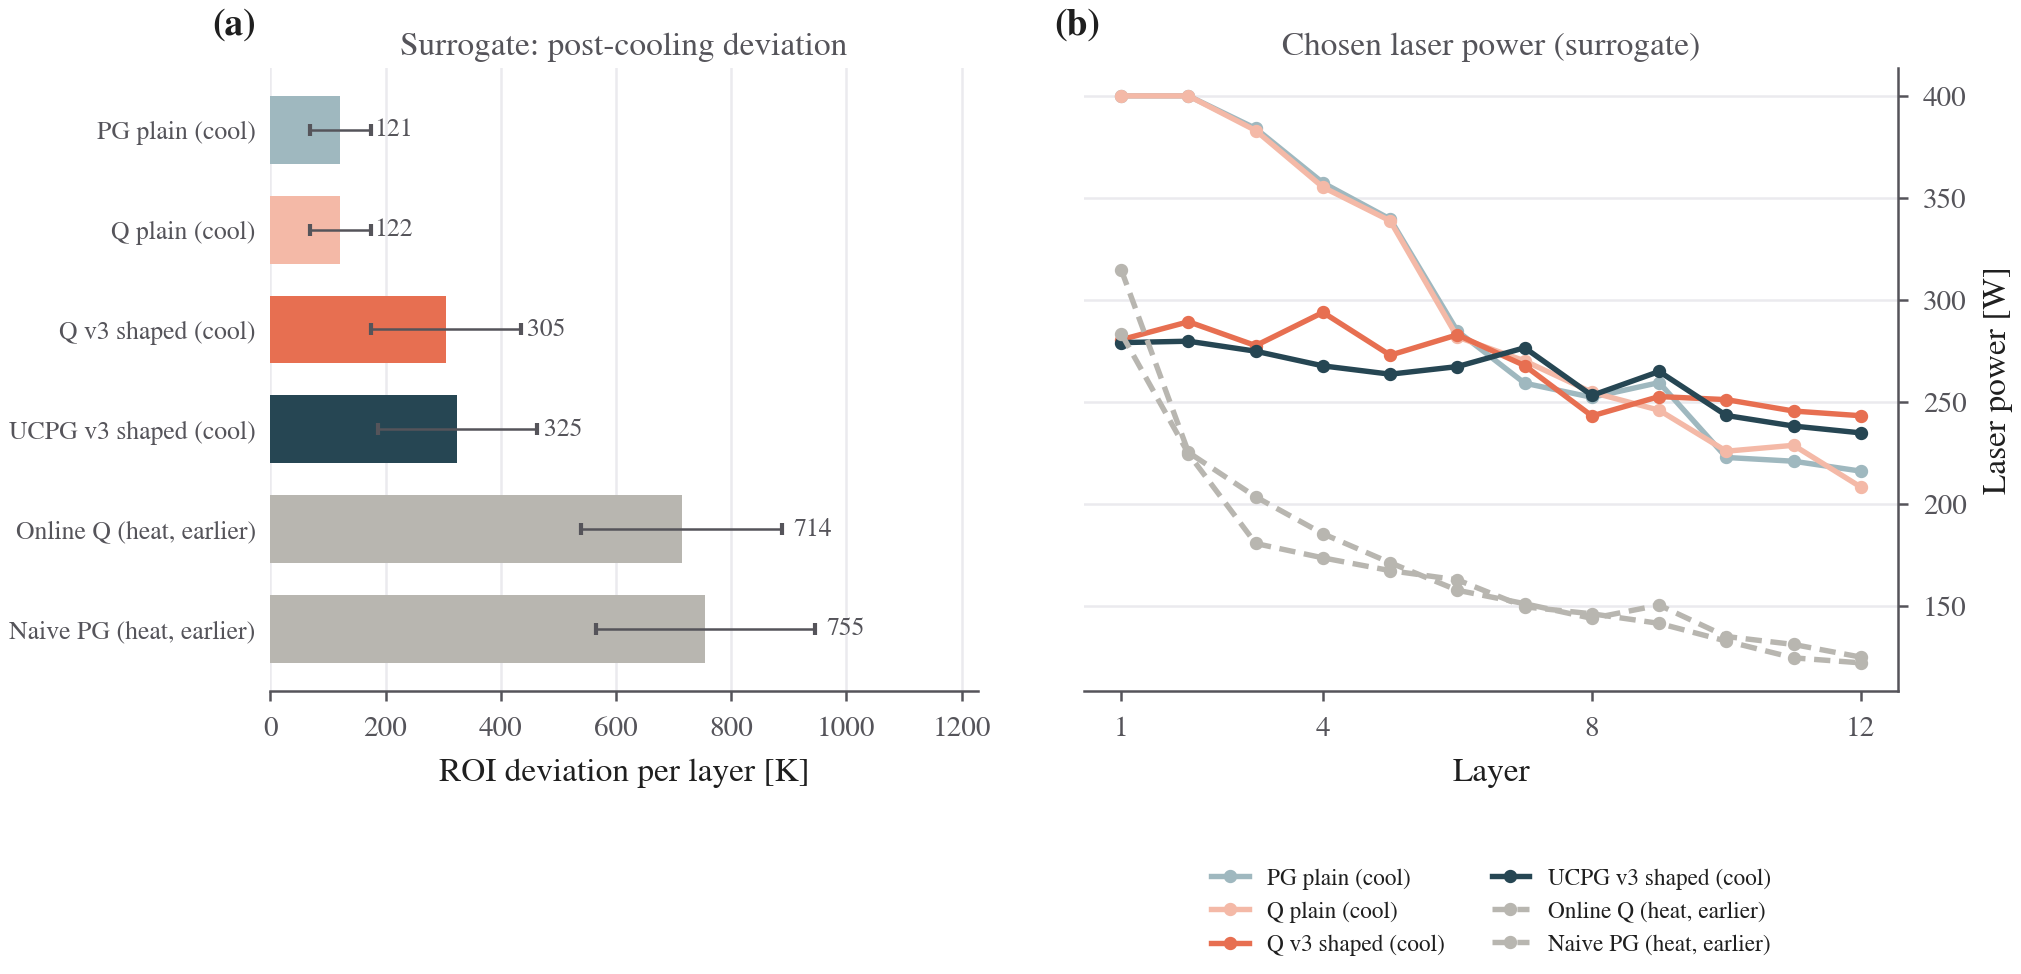
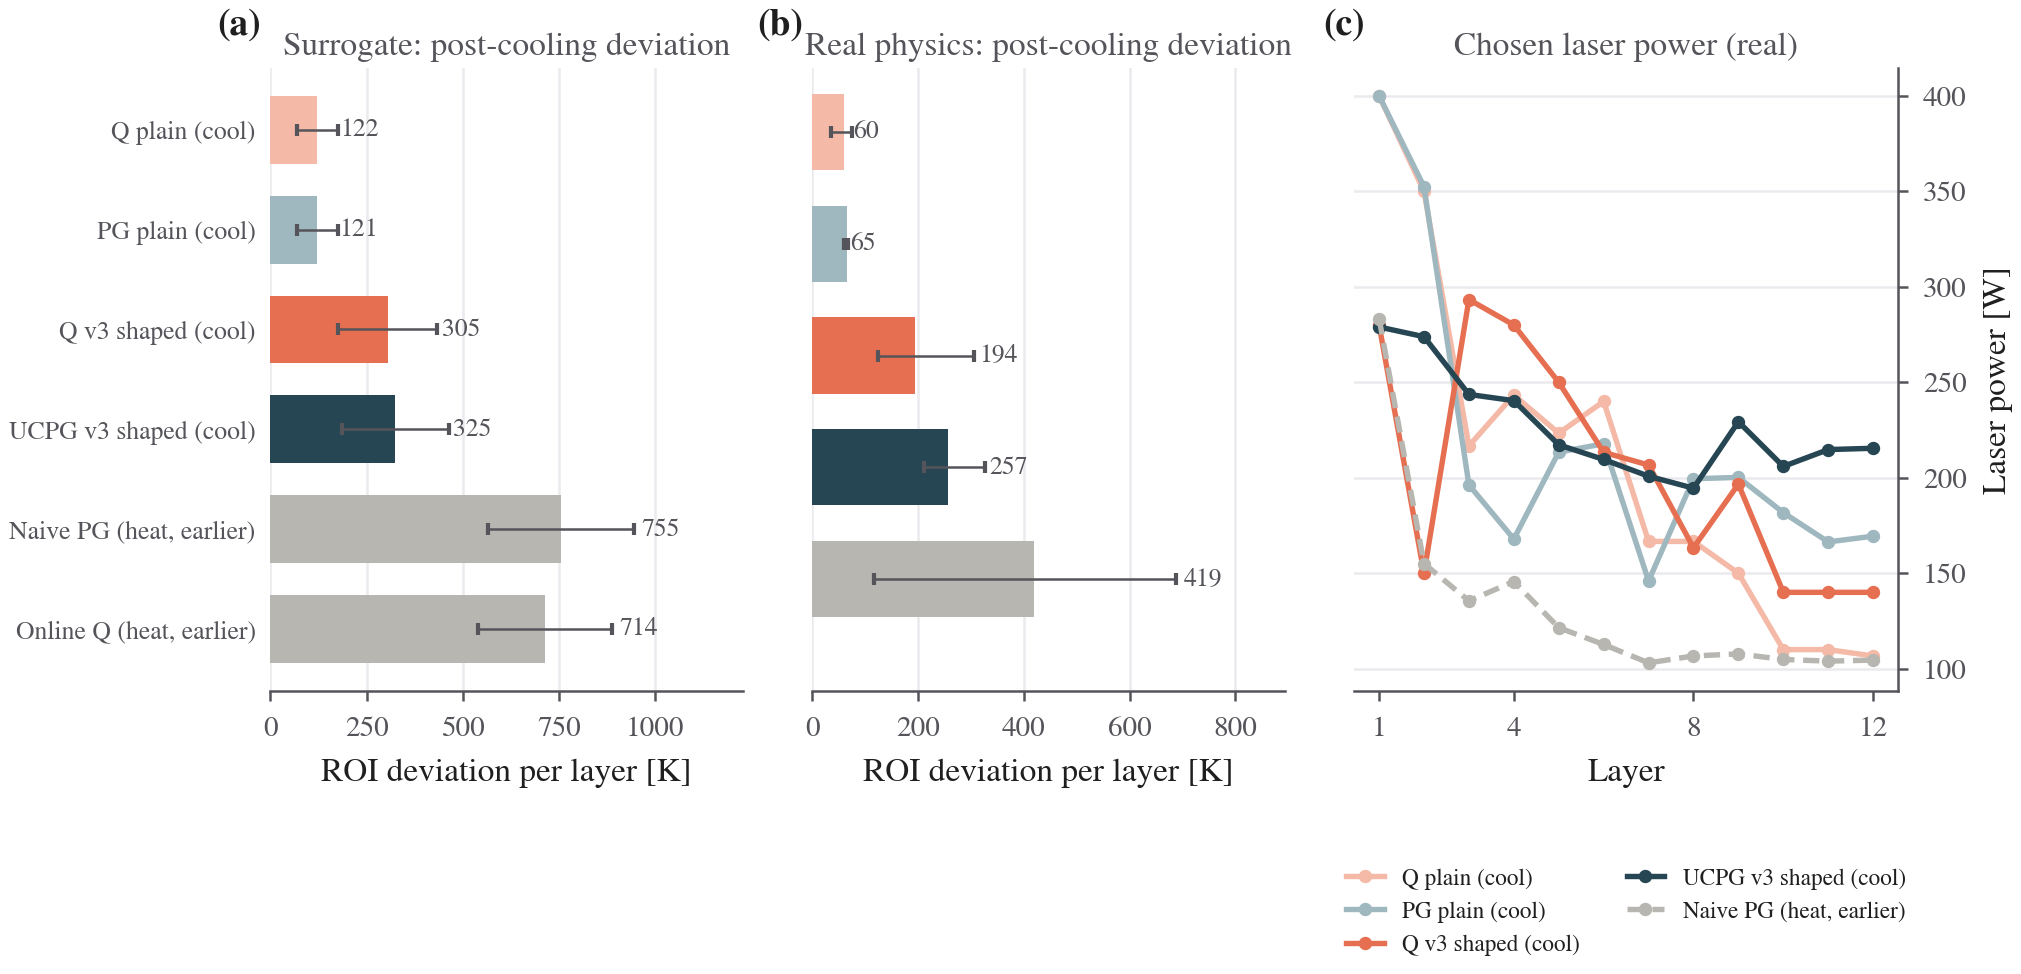
Update; aleatoric uncertainty plot

diff --git a/surrogate_model_v3/paper_figure_aleatoric.py b/surrogate_model_v3/paper_figure_aleatoric.py
@@ -13,7 +13,9 @@ train.py --perturb_frac), the learned aleatoric σ with its expected value:
                     √3 ε when A ≈ I.
 
 All σ in normalised units (fraction of each node's state_std), node-averaged,
-test-split mean; learned full-transition σ is the propagated one.
+mean over IN-DISTRIBUTION test samples (laser power inside the model's training
+range; --subset all to use every sample); learned full-transition σ is the
+propagated one. Bars: 5-95 % over those samples.
 
 Inputs: surrogate_model_v3/results_aleatoric_calibration/<setting>_perturb<ε>/
           ood_test.npz                  (evaluate_ood.py --split test --propagate_uncertainty --dump_npz)
@@ -45,10 +47,10 @@ SETTINGS = [  # folder prefix, panel title
     ("narrow_200_300W",     "Narrow (200–300 W)"),
     ("gap_100-150_350-400", "Gap (100–150, 350–400 W)"),
 ]
-HEAT_C, FULL_C = "#e76f51", "#264653"          # heating stage, full transition (match OOD figure palette)
+HEAT_C, FULL_C = "#c8553d", "#2a6f97"          # heating stage (terracotta), full transition (steel blue)
 
 
-def _load_setting(root, prefix):
+def _load_setting(root, prefix, subset="id"):
     rows = []
     for d in glob.glob(os.path.join(root, f"{prefix}_perturb*")):
         m = re.search(r"_perturb([0-9.]+)$", d)
@@ -57,7 +59,11 @@ def _load_setting(root, prefix):
             continue
         z = np.load(npz)
         exp = json.load(open(js))[0]
-        h, c = z["heat_samples/ale"], z["comb_samples/ale"]
+        idm = z["id_mask"].astype(bool)
+        keep = {"id": idm, "ood": ~idm, "all": np.ones(len(idm), bool)}[subset]
+        if not keep.any():                                   # e.g. full range has no OOD samples
+            continue
+        h, c = z["heat_samples/ale"][keep], z["comb_samples/ale"][keep]
         rows.append(dict(eps=float(m.group(1)),
                          heat=h.mean(), heat_lo=np.percentile(h, 5), heat_hi=np.percentile(h, 95),
                          full=c.mean(), full_lo=np.percentile(c, 5), full_hi=np.percentile(c, 95),
@@ -68,11 +74,16 @@ def _load_setting(root, prefix):
 def main() -> None:
     p = argparse.ArgumentParser()
     p.add_argument("--root", default="surrogate_model_v3/results_aleatoric_calibration")
+    p.add_argument("--subset", choices=["id", "ood", "all"], default="id",
+                   help="Test samples used: 'id' (default) = laser power inside the model's training "
+                        "range, where the noise level is identifiable; 'ood' = only outside it; 'all' = every test sample (the "
+                        "aleatoric head is extrapolated out of distribution and can be far off there, "
+                        "notably at tiny noise levels).")
     p.add_argument("--out", required=True)
     a = p.parse_args()
     plt.rcParams.update(PAPER_RC)
 
-    data = [(t, _load_setting(a.root, pre)) for pre, t in SETTINGS]
+    data = [(t, _load_setting(a.root, pre, a.subset)) for pre, t in SETTINGS]
     data = [(t, rows) for t, rows in data if rows]
     if not data:
         raise SystemExit(f"No finished runs under {a.root}")
@@ -84,45 +95,42 @@ def main() -> None:
     emax = max(r["eps"] for _, rows in data for r in rows) * 1.12
     ymax = max(max(r["full_hi"], r["full_exp"]) for _, rows in data for r in rows) * 1.08
 
+    from matplotlib.colors import to_rgb
+    lighten = lambda c, f=0.62: tuple(1 - f * (1 - np.array(to_rgb(c))))   # mix toward white
+    bw = 0.19                                                              # bar width (category units)
     for j, (ax, (title, rows)) in enumerate(zip(axes, data)):
-        eps = np.array([r["eps"] for r in rows])
-        # expected: heating y = ε (line), full transition from the Jacobian (dashed through points)
-        ax.plot([0, emax], [0, emax], color=HEAT_C, linewidth=0.8, alpha=0.6, zorder=1)
-        fe = np.array([r["full_exp"] for r in rows])
-        ax.plot(np.r_[0, eps], np.r_[0, fe], color=FULL_C, linewidth=0.8, alpha=0.6,
-                linestyle=(0, (3, 2)), zorder=1)
-        ax.scatter(eps, fe, marker="_", s=110, linewidths=1.4, color=FULL_C, zorder=2)
-        # learned
-        for key, col, mk, face in (("heat", HEAT_C, "o", "white"), ("full", FULL_C, "s", FULL_C)):
-            y = np.array([r[key] for r in rows])
-            yerr = np.array([[r[key] - r[f"{key}_lo"] for r in rows], [r[f"{key}_hi"] - r[key] for r in rows]])
-            ax.errorbar(eps, y, yerr=yerr, fmt=mk, color=col, markerfacecolor=face, markeredgecolor=col,
-                        markeredgewidth=1.0, markersize=4.2, capsize=1.5, elinewidth=0.7, zorder=3)
-        ax.set_xlim(-0.005, emax); ax.set_ylim(-0.005, ymax)
-        ax.set_xticks([t for t in (0.0, 0.05, 0.1, 0.15, 0.2, 0.25, 0.3) if t <= emax])
+        rows = [r for r in rows if r["eps"] > 0]                 # no injected noise -> nothing to recover
+        x = np.arange(len(rows))
+        # per noise level: [heating expected | heating learned]  [full expected | full learned]
+        for off, key, col, hatch in ((-1.5, "eps", HEAT_C, None), (-0.5, "heat", HEAT_C, None),
+                                     (0.5, "full_exp", FULL_C, None), (1.5, "full", FULL_C, None)):
+            learned = key in ("heat", "full")
+            ax.bar(x + off * bw, [r[key] for r in rows], width=bw * 0.92,
+                   color=col if learned else lighten(col), edgecolor=col, linewidth=0.6 if not learned else 0,
+                   zorder=2)
+        ax.set_xticks(x); ax.set_xticklabels([f"{r['eps']:g}" for r in rows])
+        ax.set_xlim(-0.6, len(rows) - 0.4); ax.set_ylim(0, ymax)
         ax.set_xlabel(r"Injected noise std $\varepsilon$")
         ax.set_title(title, pad=3, color=INK_2)
-        ax.grid(color=GRID, linewidth=0.6); ax.set_axisbelow(True)
+        ax.grid(axis="y", color=GRID, linewidth=0.6); ax.set_axisbelow(True)
+        ax.tick_params(axis="x", length=0)
         _panel_label(ax, "abc"[j], x=-0.08 if j else -0.2)
     axes[0].set_ylabel(r"Aleatoric $\sigma$ (× state std)")
 
-    handles = [
-        Line2D([], [], color=HEAT_C, marker="o", markerfacecolor="white", linestyle="none", markersize=4.2,
-               label="Heating stage, learned"),
-        Line2D([], [], color=HEAT_C, linewidth=0.8, alpha=0.6, label=r"Heating stage, expected ($\varepsilon$)"),
-        Line2D([], [], color=FULL_C, marker="s", linestyle="none", markersize=4.2, label="Full transition, learned"),
-        Line2D([], [], color=FULL_C, marker="_", markersize=9, markeredgewidth=1.4, linewidth=0.8, alpha=0.8,
-               linestyle=(0, (3, 2)), label="Full transition, expected (Jacobian)"),
-    ]
-    fig.legend(handles=handles, loc="upper center", bbox_to_anchor=(0.5, 1.13), ncols=2, handlelength=2.0,
-               columnspacing=1.2)
+    from matplotlib.patches import Patch
+    handles = [Patch(facecolor=lighten(HEAT_C), edgecolor=HEAT_C, linewidth=0.6, label="Heating stage, expected"),
+               Patch(facecolor=HEAT_C, label="Heating stage, learned"),
+               Patch(facecolor=lighten(FULL_C), edgecolor=FULL_C, linewidth=0.6, label="Full transition, expected"),
+               Patch(facecolor=FULL_C, label="Full transition, learned")]
+    fig.legend(handles=handles, loc="upper center", bbox_to_anchor=(0.5, 1.10), ncols=4, handlelength=1.2,
+               columnspacing=1.4)
 
     os.makedirs(os.path.dirname(a.out) or ".", exist_ok=True)
     for ext in ("pdf", "png"):
         fig.savefig(f"{a.out}.{ext}")
     plt.close(fig)
 
-    print("[paper_figure_aleatoric] learned vs expected (test-set mean, normalised units):")
+    print(f"[paper_figure_aleatoric] learned vs expected (mean over {a.subset.upper()} test samples, normalised units):")
     for title, rows in data:
         print(f"  {title}")
         for r in rows:
